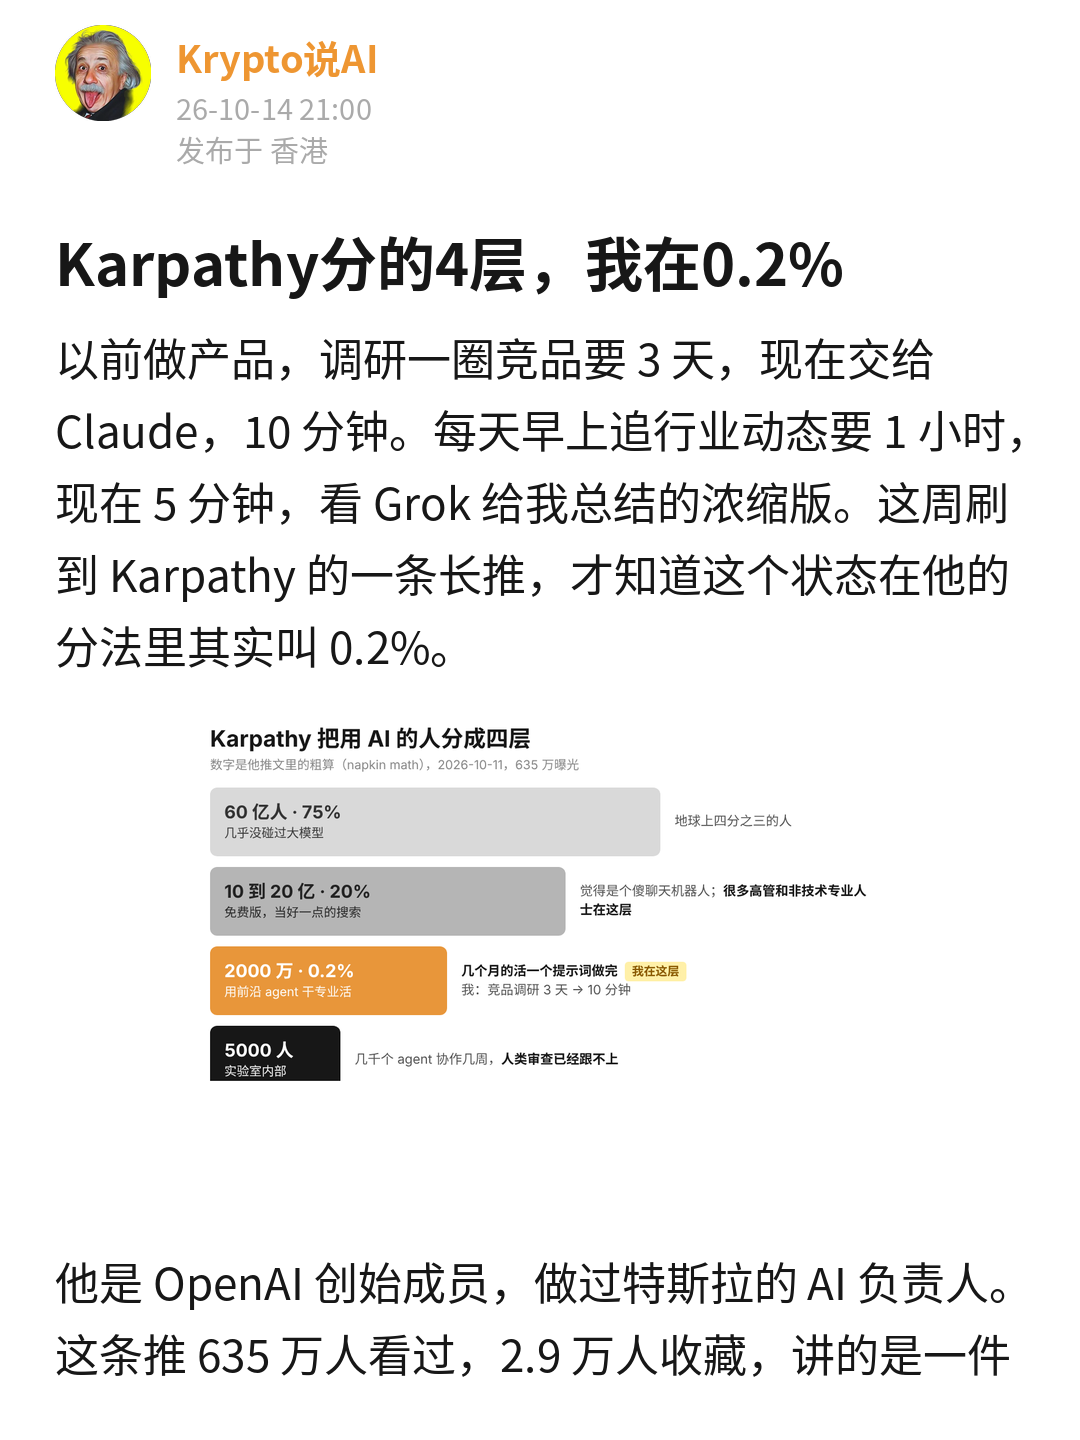
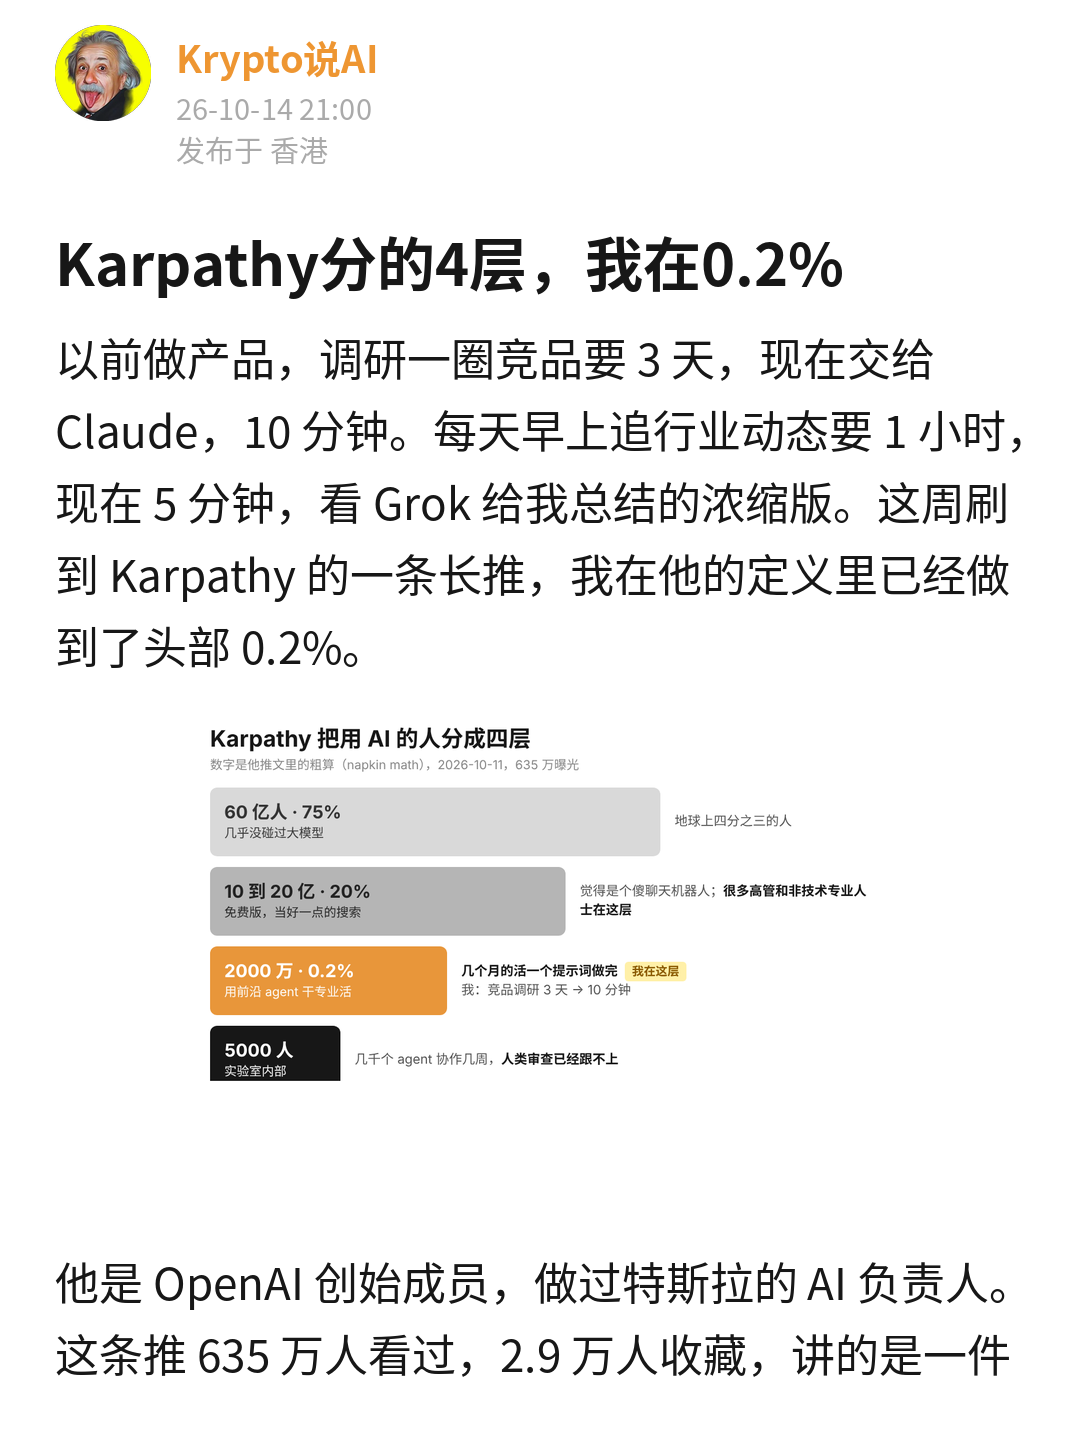
Karpathy 漏斗稿：首段按用户改法
Claude-Session: https://claude.ai/code/session_01QnHH8YpEqNgD4xeX46mZ1k

Changed region(s): [[0.5194, 0.375, 0.9472, 0.4375], [0.0611, 0.4375, 0.3972, 0.4688]]

diff --git a/发布/2026-10-14_karpathy-capability-funnel/meme版/编辑用/draft.md b/发布/2026-10-14_karpathy-capability-funnel/meme版/编辑用/draft.md
@@ -13,7 +13,7 @@ location: 香港
 account: Krypto说AI
 ---
 
-以前做产品，调研一圈竞品要 3 天，现在交给 Claude，10 分钟。每天早上追行业动态要 1 小时，现在 5 分钟，看 Grok 给我总结的浓缩版。这周刷到 Karpathy 的一条长推，才知道这个状态在他的分法里其实叫 0.2%。
+以前做产品，调研一圈竞品要 3 天，现在交给 Claude，10 分钟。每天早上追行业动态要 1 小时，现在 5 分钟，看 Grok 给我总结的浓缩版。这周刷到 Karpathy 的一条长推，我在他的定义里已经做到了头部 0.2%。
 
 他是 OpenAI 创始成员，做过特斯拉的 AI 负责人。这条推 635 万人看过，2.9 万人收藏，讲的是一件事：大家对 AI 有多强的认知，差距不但没缩小，还在拉大，形状是个漏斗。
 
